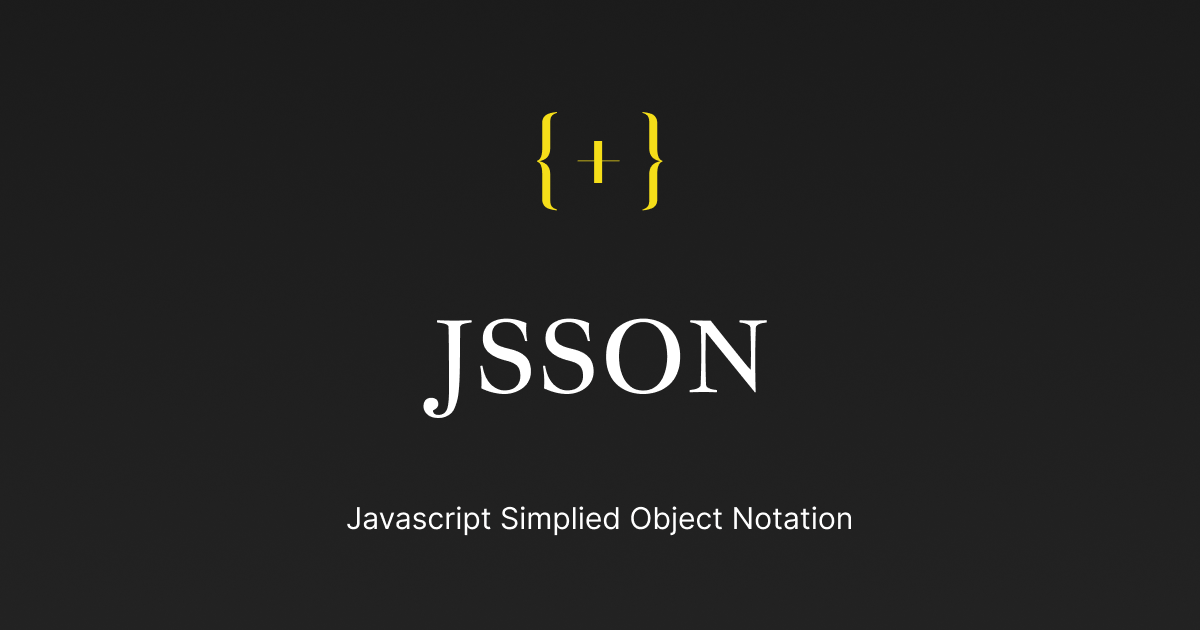
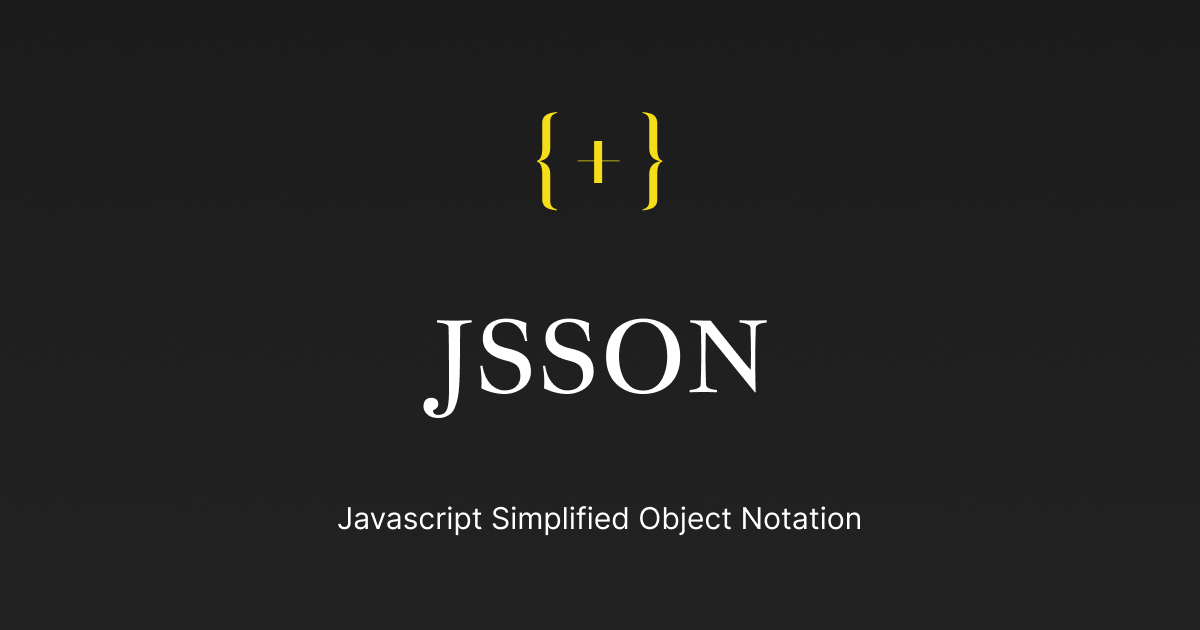
lol

Changed region(s): [[0.2775, 0.7841, 0.7092, 0.8444]]

diff --git a/README.md b/README.md
@@ -1,6 +1,6 @@
 # JSSON - V0.0.3
 
-[![JSSON Banner](https://i.postimg.cc/xTPzcqNQ/og.png)](https://postimg.cc/zVVVBQzk2)
+[![JSSON Banner](https://i.postimg.cc/yx4C3YqC/og.png)](https://postimg.cc/WFnHQVb5)
 
 **JSON Simplified Object Notation** - A human-friendly syntax that transpiles to JSON.
 
